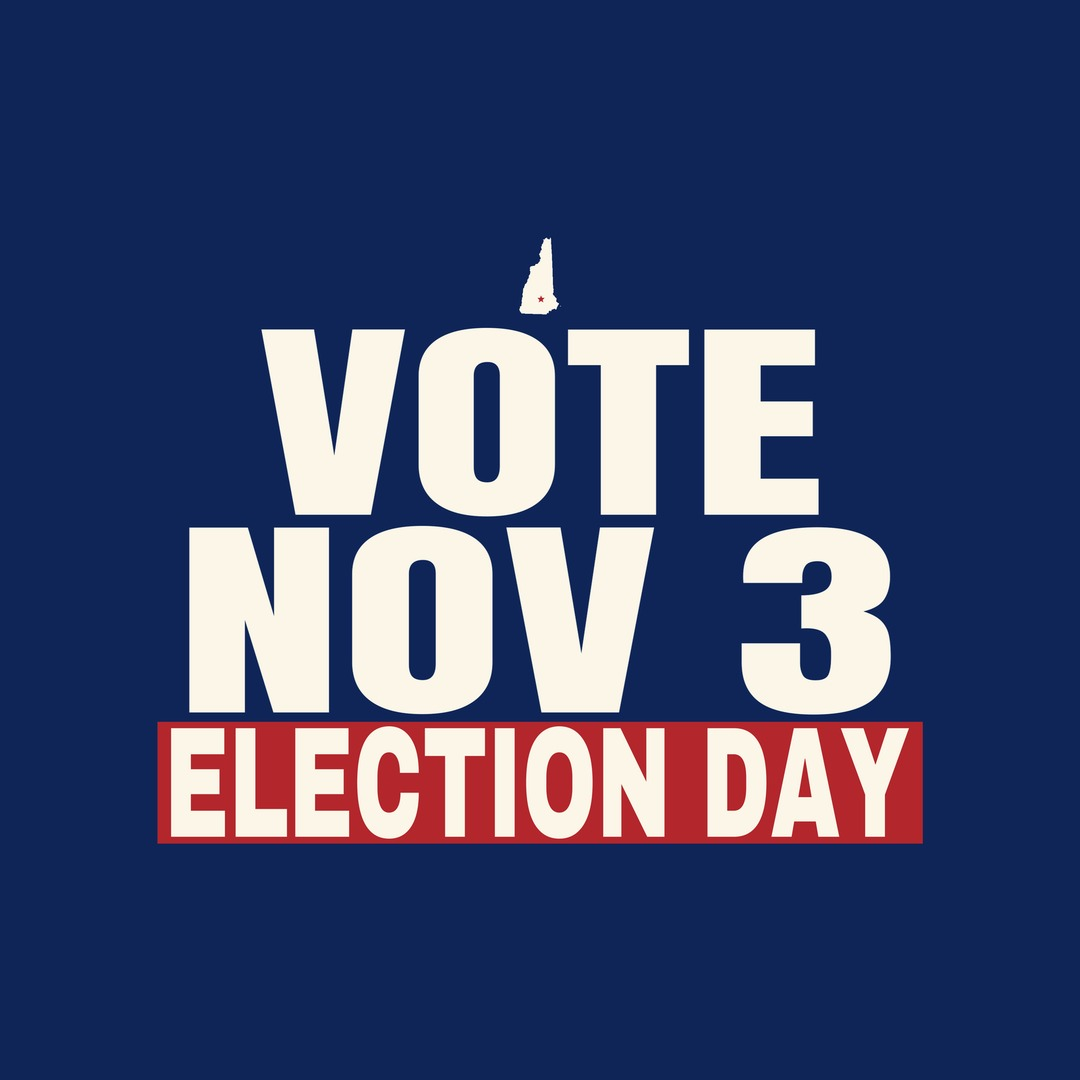
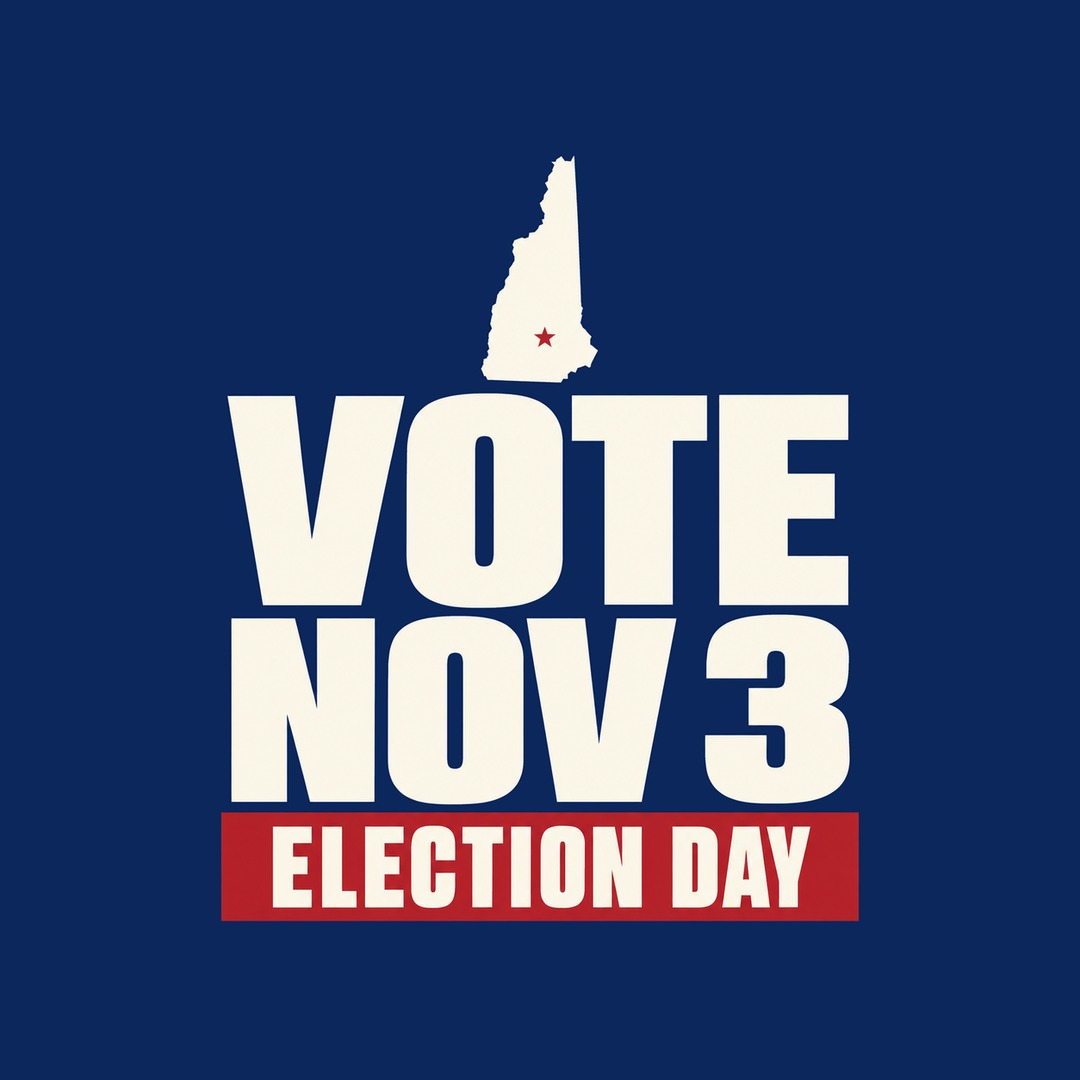
New Hampshire: 10 new ready-mades from Codex; retire the earlier set
Claude-Session: https://claude.ai/code/session_01U4jJBSt3CnGjJYrtPzNn5q

Changed region(s): [[0.1222, 0.1528, 0.8556, 0.8556]]

diff --git a/site/index.php b/site/index.php
@@ -83,7 +83,7 @@ function vote_files( $abbr ) {
 
 // The state hero shows one standout ready-made, tilted (October 20, Garrett): the design named here,
 // or the first in the set. Numbers match <abbr>-vote-N.jpg.
-const VOTE_HERO = array( 'MS' => 5, 'MI' => 7, 'ID' => 7, 'NJ' => 5, 'OR' => 5, 'MN' => 6, 'NE' => 6, 'AL' => 6, 'AZ' => 6, 'CT' => 7, 'DE' => 5, 'GA' => 5, 'FL' => 5, 'HI' => 6, 'IL' => 8, 'AR' => 6, 'IN' => 5, 'KY' => 8, 'ME' => 6, 'LA' => 6, 'IA' => 8, 'MA' => 5, 'MT' => 5, 'NV' => 8 );
+const VOTE_HERO = array( 'MS' => 5, 'MI' => 7, 'ID' => 7, 'NJ' => 5, 'OR' => 5, 'MN' => 6, 'NE' => 6, 'AL' => 6, 'AZ' => 6, 'CT' => 7, 'DE' => 5, 'GA' => 5, 'FL' => 5, 'HI' => 6, 'IL' => 8, 'AR' => 6, 'IN' => 5, 'KY' => 8, 'ME' => 6, 'LA' => 6, 'IA' => 8, 'MA' => 5, 'MT' => 5, 'NV' => 8, 'NH' => 8 );
 function vote_hero_file( $abbr ) {
 	$n = VOTE_HERO[ $abbr ] ?? 0;
 	$k = strtolower( $abbr );
